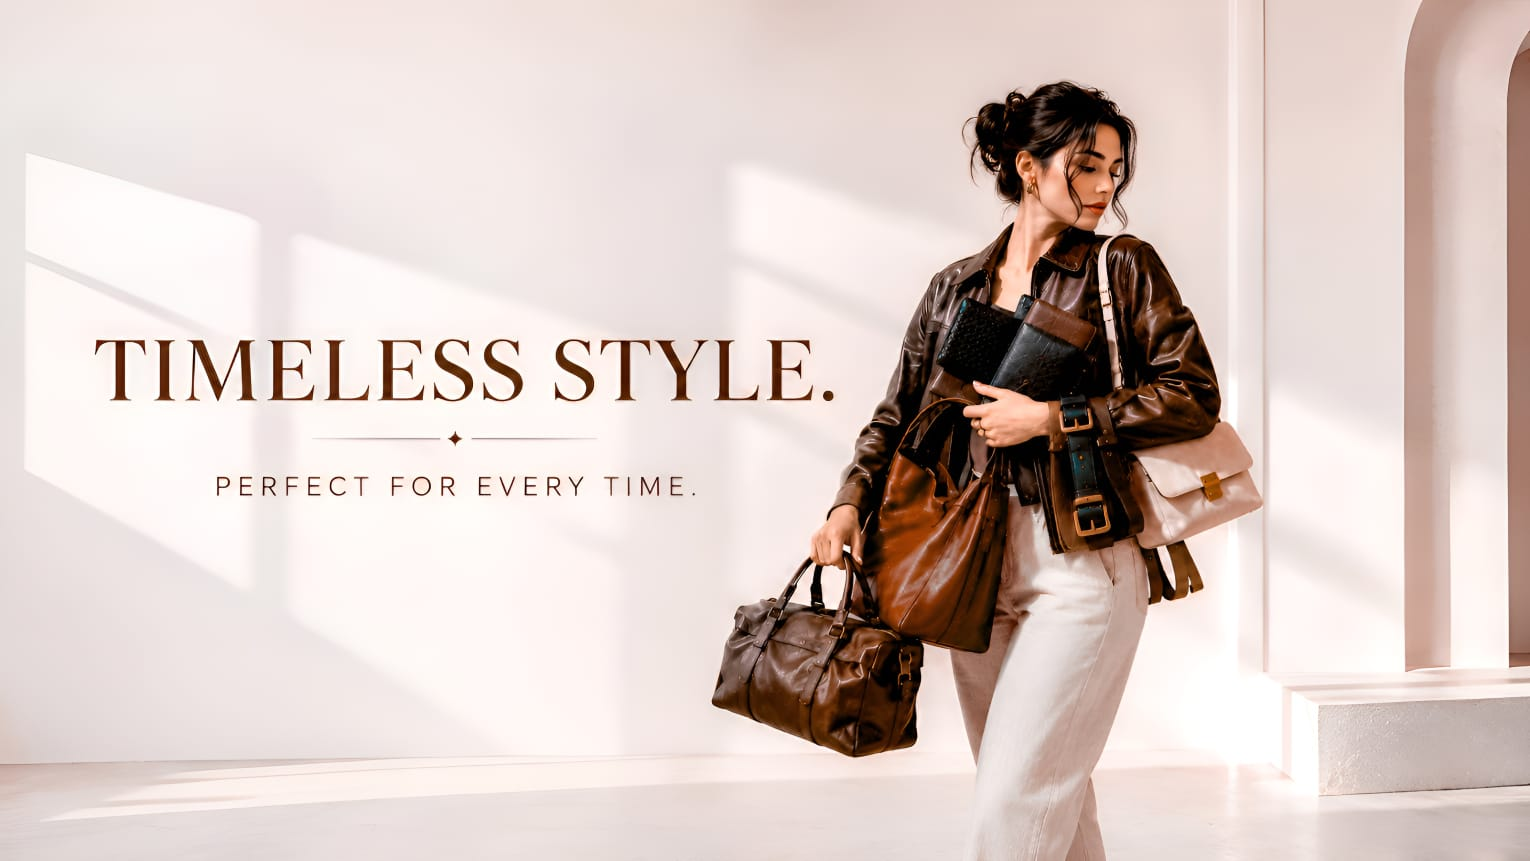
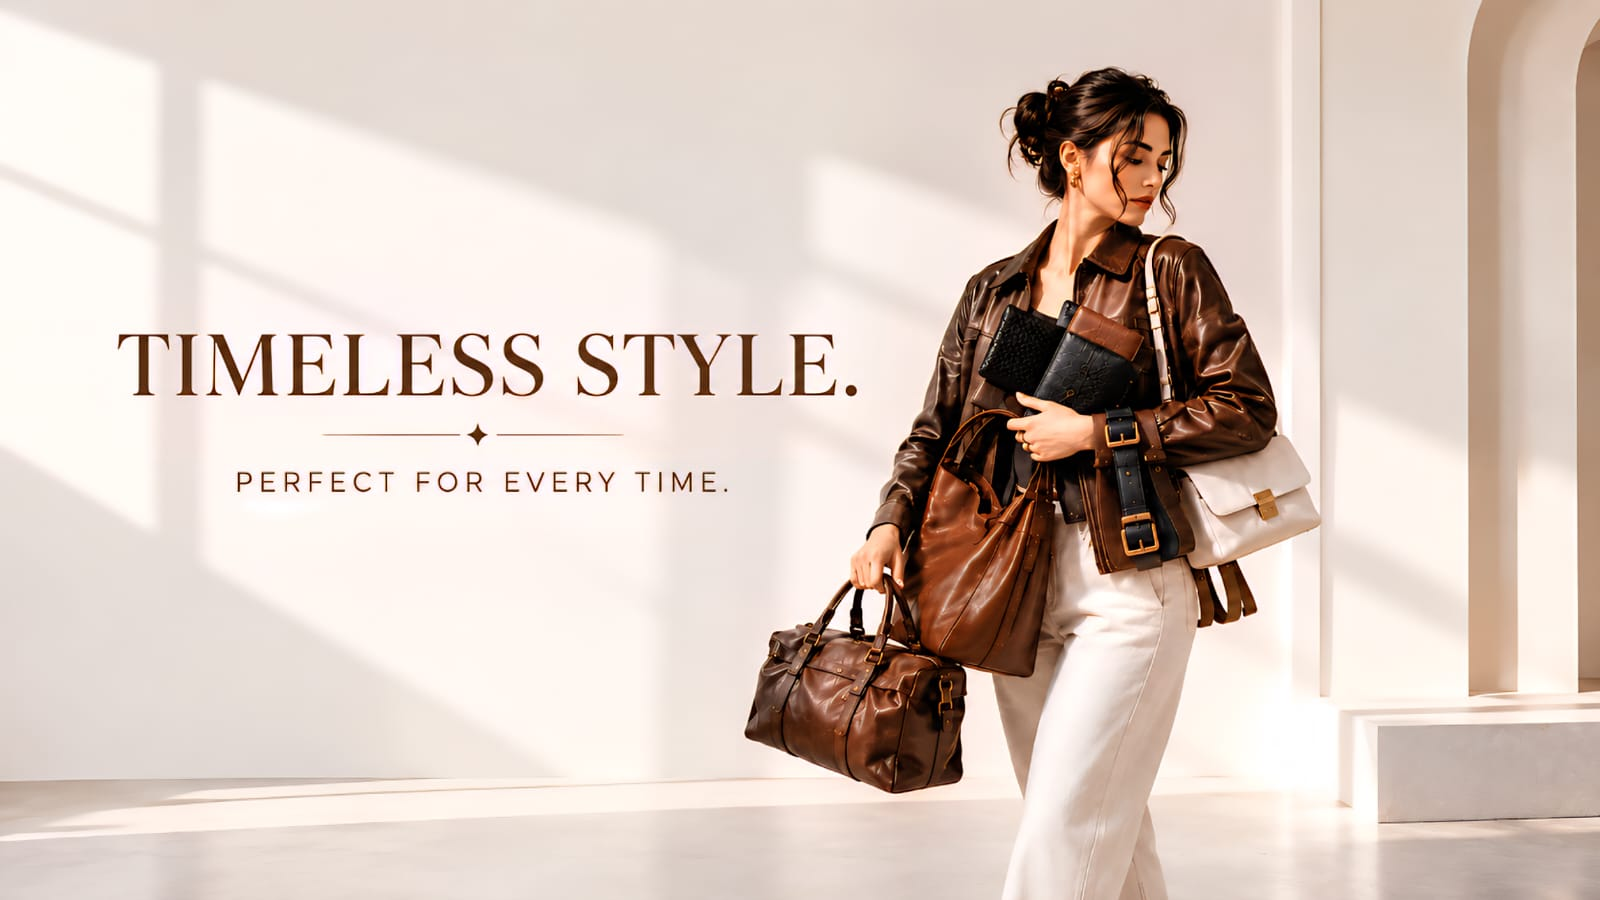
Update

diff --git a/src/components/HeroSection.jsx b/src/components/HeroSection.jsx
@@ -11,8 +11,8 @@ import bagImage from "../assets/bag.jpg";
 import walletImage from "../assets/wallet.jpg";
 import jacketImage from "../assets/jacket.avif";
 import beltImage from "../assets/belt.jpg";
-import heroCoverImage from "../assets/banner1.jpg";
-import heroMobileImage from "../assets/bannerMobile3.jpg";
+import heroCoverImage from "../assets/banner.jpg";
+import heroMobileImage from "../assets/bannerMobile15.jpg";
 import { useShop, matchCategory } from "../context/ShopContext";
 
 export const HeroSection = ({ onSelectCategory }) => {
@@ -111,10 +111,10 @@ export const HeroSection = ({ onSelectCategory }) => {
       <section className="space-y-6">
         <div className="flex items-end justify-between">
           <div>
-            <span className="text-[11px] sm:text-xs font-semibold tracking-widest text-amber-500 dark:text-amber-400 ">
+            <span className="text-[11px] sm:text-xs font-bold tracking-widest text-amber-500 dark:text-amber-400 ">
               Curated Catalog
             </span>
-            <h2 className="font-serif-brand text-lg sm:text-2xl font-semibold text-slate-900 dark:text-slate-100 mt-1">
+            <h2 className="font-serif-brand text-lg sm:text-2xl font-bold text-slate-900 dark:text-slate-100 mt-1">
               Explore Our Signature Departments
             </h2>
           </div>

diff --git a/src/pages/CategoryPage.jsx b/src/pages/CategoryPage.jsx
@@ -139,7 +139,7 @@ export const CategoryPage = ({ onEditProduct }) => {
   }, [products, activeCategory, debouncedSearch, sortBy]);
 
   // Pagination Configuration
-  const ITEMS_PER_PAGE = 8;
+  const ITEMS_PER_PAGE = 20;
   const [currentPage, setCurrentPage] = useState(1);
 
   // Reset to page 1 whenever activeCategory, search, or sortBy changes
@@ -377,7 +377,7 @@ export const CategoryPage = ({ onEditProduct }) => {
         </div>
       ) : (
         <div className="space-y-6 sm:space-y-8">
-          <div className="grid grid-cols-2 md:grid-cols-3 lg:grid-cols-4 gap-3 sm:gap-6">
+          <div className="grid grid-cols-2 md:grid-cols-4 lg:grid-cols-5 gap-3 sm:gap-6">
             {paginatedProducts.map((product) => (
               <ProductCard
                 key={product.id}

diff --git a/src/pages/ProductsPage.jsx b/src/pages/ProductsPage.jsx
@@ -130,7 +130,7 @@ export const ProductsPage = ({ onEditProduct }) => {
   }, [products, activeCategory, debouncedSearch, sortBy]);
 
   // Pagination Configuration
-  const ITEMS_PER_PAGE = 8;
+  const ITEMS_PER_PAGE = 20;
   const [currentPage, setCurrentPage] = useState(1);
 
   useEffect(() => {
@@ -333,7 +333,7 @@ export const ProductsPage = ({ onEditProduct }) => {
         </div>
       ) : (
         <div className="space-y-6 sm:space-y-8">
-          <div className="grid grid-cols-2 md:grid-cols-3 lg:grid-cols-4 gap-3 sm:gap-6">
+          <div className="grid grid-cols-2 md:grid-cols-4 lg:grid-cols-5 gap-3 sm:gap-6">
             {paginatedProducts.map((product) => (
               <ProductCard
                 key={product.id}

diff --git a/src/pages/HomePage.jsx b/src/pages/HomePage.jsx
@@ -86,7 +86,7 @@ const ProductCollectionRow = ({
             </span>
           )} */}
           <h2
-            className="font-serif-brand font-medium text-slate-900 dark:text-slate-100 mt-1"
+            className="font-serif-brand font-bold text-slate-900 dark:text-slate-100 mt-1"
           >
             {title}
           </h2>
